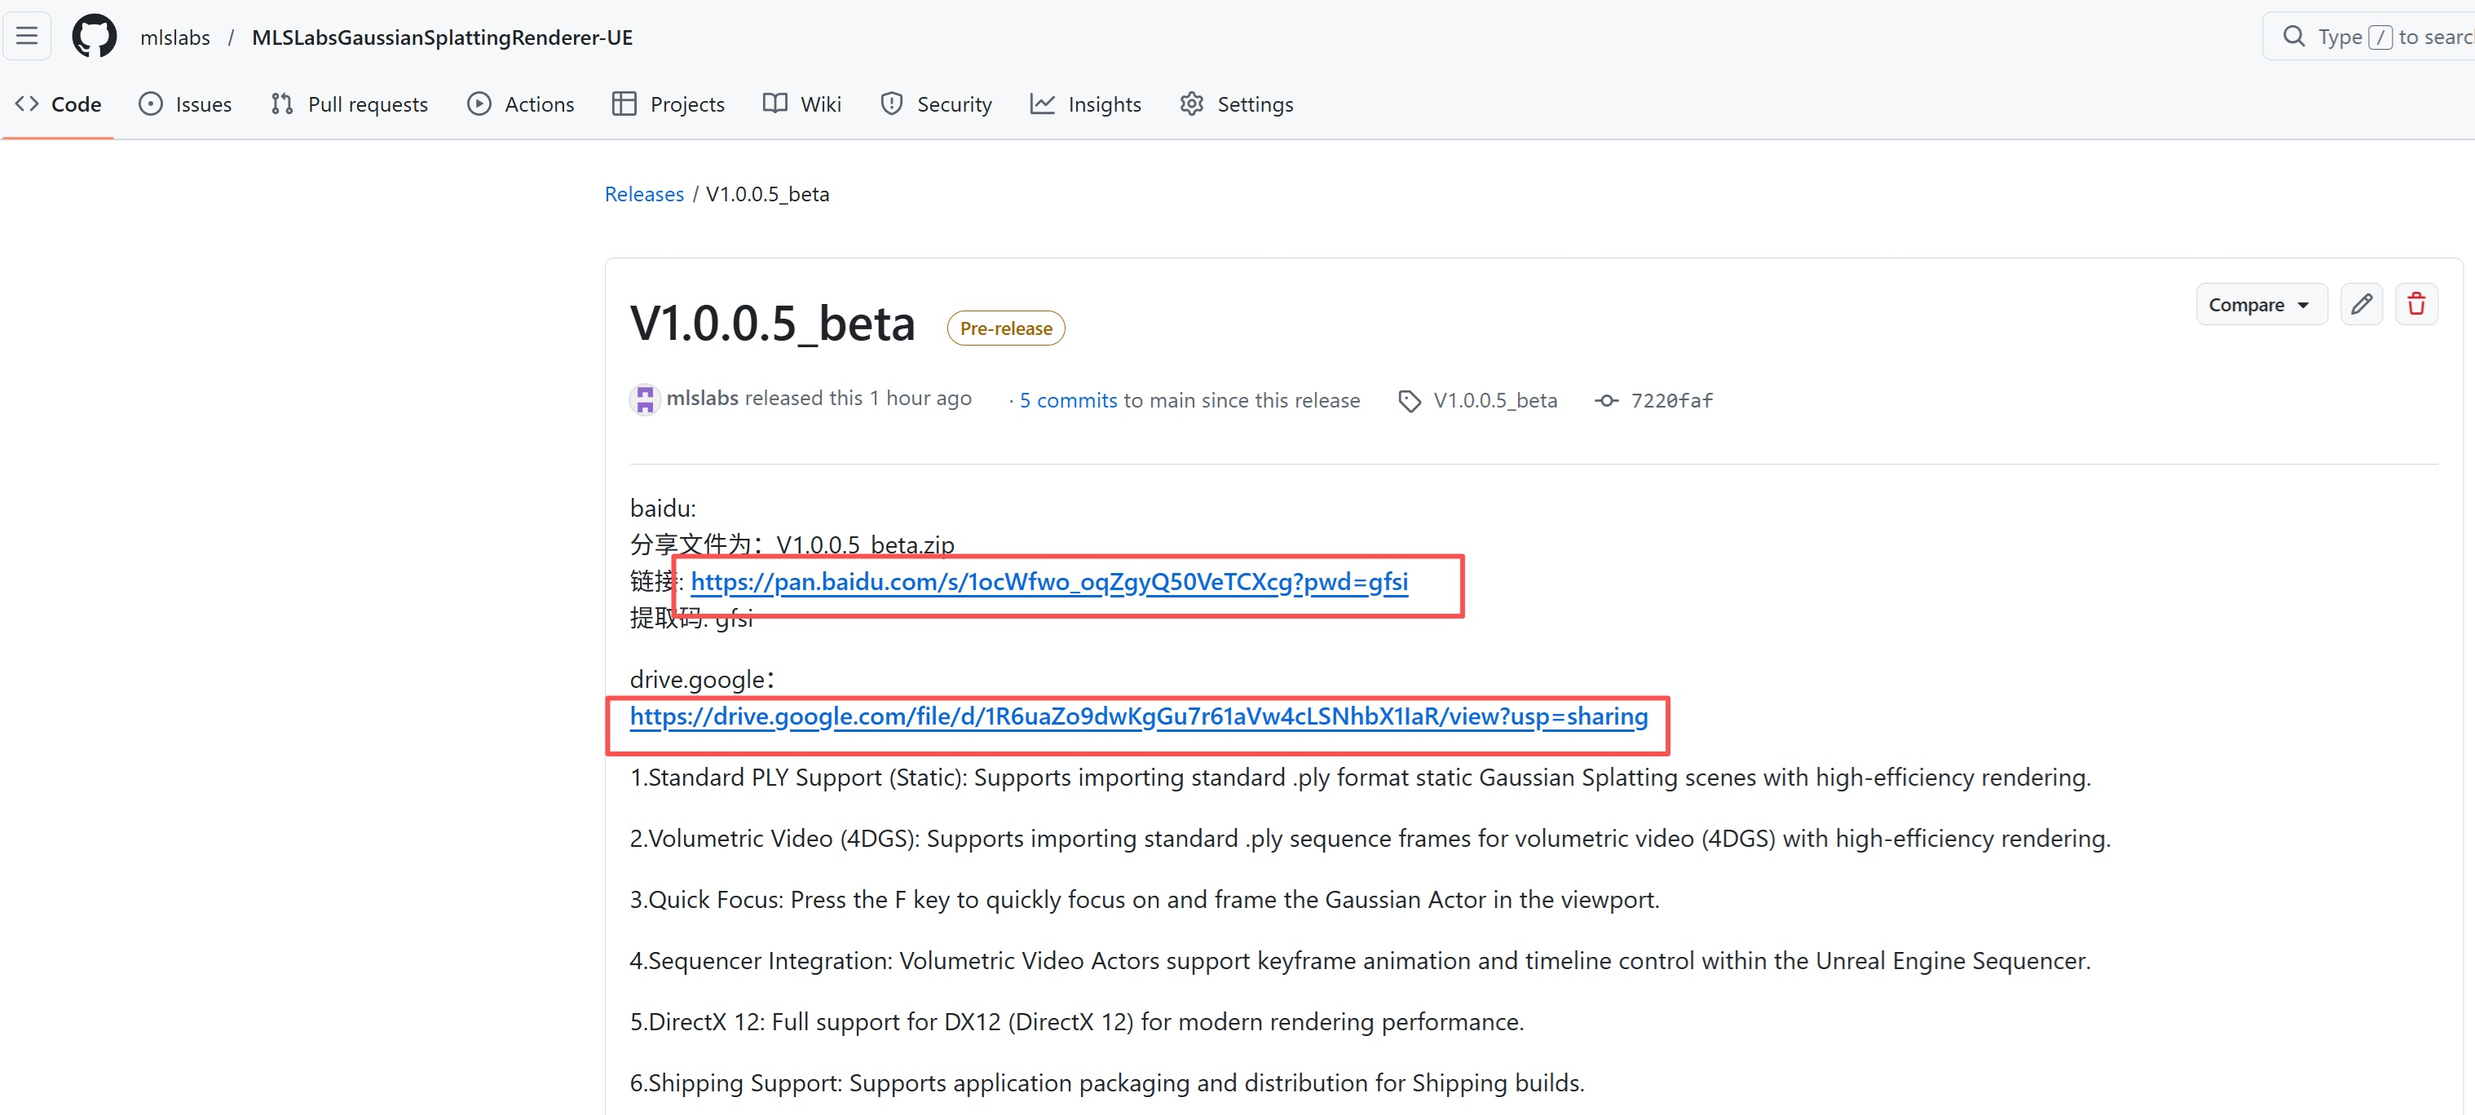
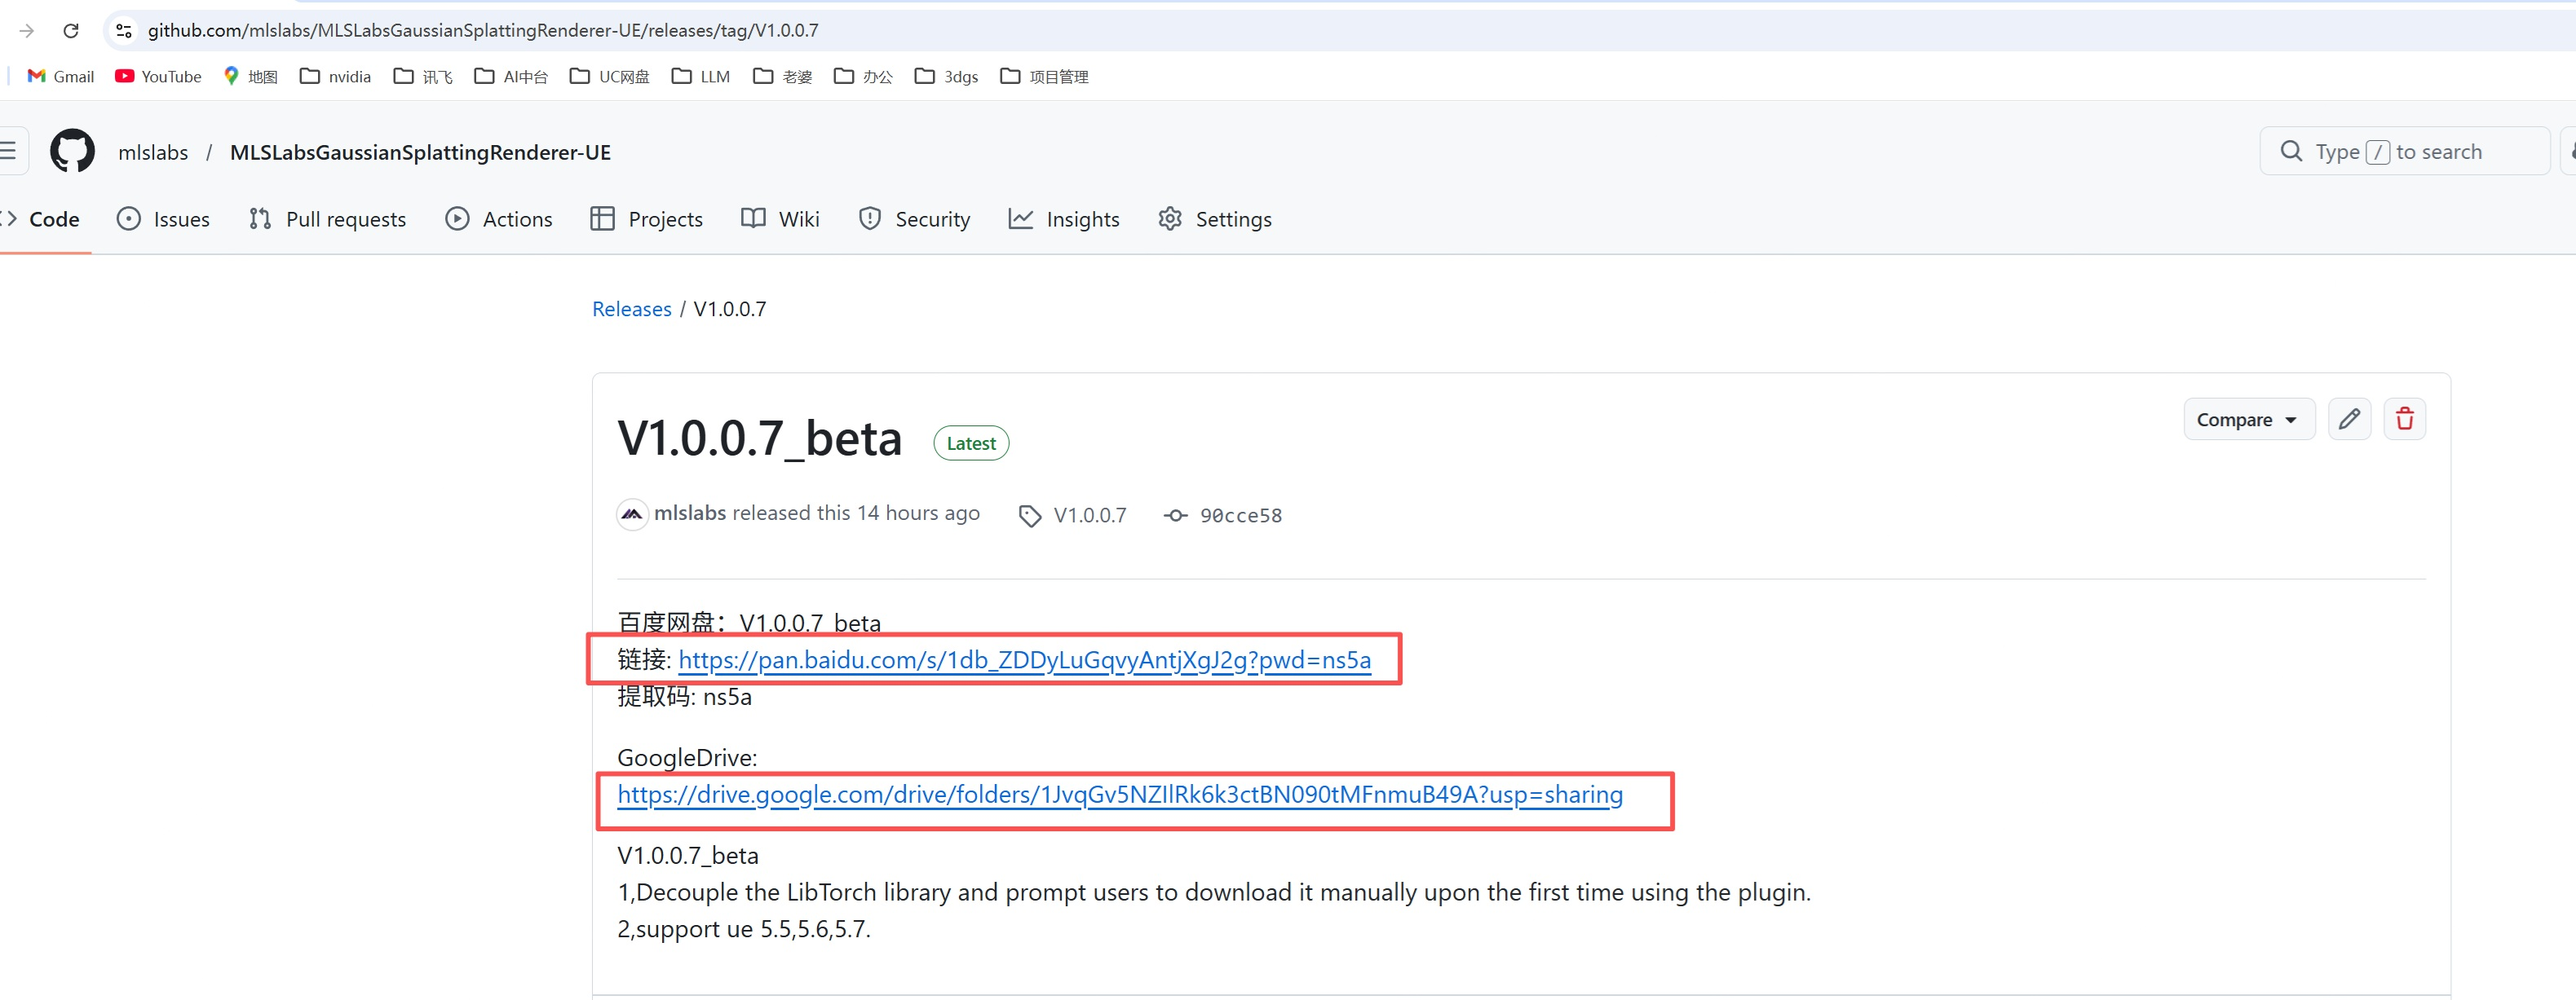
update README.md README_CN.md according to v1.0.0.7

diff --git a/PluginDemo/README.md b/PluginDemo/README.md
@@ -50,15 +50,15 @@ B站（中文）：
 
   <img src="Media/image/github_release.jpg" width="500" />
 
-  2. Choose the latest version (currently v1.0.0.5_beta).
-  <img src="Media/image/github_release_v1.0.0.5_beta.jpg" width="500" />
+  2. Choose the latest version.
+  <img src="Media/image/github_release_latest.jpg" width="500" />
   
   3. Download the zip file.
 
   <img src="Media/image/download_link.jpg" width="500" />
 
   4. Installation:
-  To package your project, unzip MLSLabsRenderer-Lite_V1.0.0.5_beta_ue5.5.zip to your Engine Installation Path `Plugins\Marketplace`.
+  To package your project, unzip downloaded zip to your Engine Installation Path `Plugins\Marketplace`.
 
   <img src="Media/image/unzip.jpg" width="500" />
   
@@ -66,9 +66,29 @@ B站（中文）：
   
   <img src="Media/image/after_unzip.jpg" width="500" />
   
-  5.Open Unreal Editor，enable the MLSLabsRenderer Plugin, and restart editor.
+  5. Open Unreal Editor，enable the MLSLabsRenderer Plugin, and restart editor.
 
   <img src="Media/image/enable_plugin.jpg" width="500" />
+  
+  6. After launching the Unreal Editor, open the environment setup prompt or click the "Setup Environment" button in the navigation bar.
+  
+  <img src="Media/image/setup_env_tip.jpg" width="500" />
+  
+  7. In the Setup Environment window, click "Install Dependencies".
+  
+  <img src="Media/image/install_dep.jpg" width="500" />
+  
+  8. The system will begin downloading and installing the LibTorch package. Please wait for the process to complete.
+  
+  <img src="Media/image/install_dep_progress.jpg" width="500" />
+  
+  9. Once installation is finished, click to restart the Editor automatically.
+  
+  <img src="Media/image/install_dep_complete.jpg" width="500" />
+  
+  10. If the automatic restart fails, you must manually restart the Editor. This step is crucial; otherwise, the plugin will not load correctly.
+  
+  <img src="Media/image/install_dep_manual_restart.jpg" width="500" />
 
  ## Demo Data Download Links:
 

diff --git a/PluginDemo/README_CN.md b/PluginDemo/README_CN.md
@@ -51,15 +51,15 @@ B站（中文）：
 
   <img src="Media/image/github_release.jpg" width="500" />
 
-  2. 下载最新版本（当前版本v1.0.0.5_beta 版本）。
-  <img src="Media/image/github_release_v1.0.0.5_beta.jpg" width="500" />
+  2. 下载最新版本。
+  <img src="Media/image/github_release_latest.jpg" width="500" />
   
   3. 下载 zip 压缩包。
 
   <img src="Media/image/download_link.jpg" width="500" />
 
   4. 安装方法：
-  如果你需要打包项目，请将 'MLSLabsRenderer-Lite_V1.0.0.5_beta_ue5.5.zip'解压到引擎安装目录下的 'Plugins\Marketplace' 文件夹中。
+  如果你需要打包项目，请将下载的插件包解压到引擎安装目录下的 'Plugins\Marketplace' 文件夹中。
 
   <img src="Media/image/unzip.jpg" width="500" />
   
@@ -67,9 +67,29 @@ B站（中文）：
   
   <img src="Media/image/after_unzip.jpg" width="500" />
   
-  5.打开虚幻编辑器，启用MLSLabsRenderer 插件，并重启编辑器。
+  5. 打开虚幻编辑器，启用MLSLabsRenderer 插件，并重启编辑器。
 
   <img src="Media/image/enable_plugin.jpg" width="500" />
+  
+  6. 启动虚幻编辑器后，打开安装环境提示，或者在导航栏点击安装环境按钮。
+  
+  <img src="Media/image/setup_env_tip.jpg" width="500" />
+  
+  7. 安装环境界面如下，点击"Install Dependencies"。
+  
+  <img src="Media/image/install_dep.jpg" width="500" />
+  
+  8. 等待下载安装libtorch包，请耐心等待一下。
+  
+  <img src="Media/image/install_dep_progress.jpg" width="500" />
+  
+  9. 安装完成，点击自动重启编辑器。
+  
+  <img src="Media/image/install_dep_complete.jpg" width="500" />
+  
+  10. 自动重启编辑器失败，需要手动重启编辑器，这一步非常重要，否则插件无法正确加载。
+  
+  <img src="Media/image/install_dep_manual_restart.jpg" width="500" />
 
  ## 示例数据下载链接：
 
